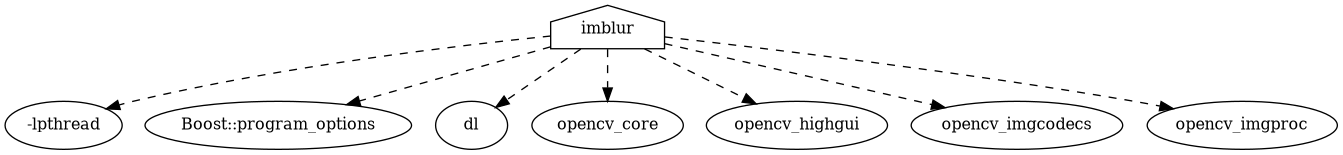
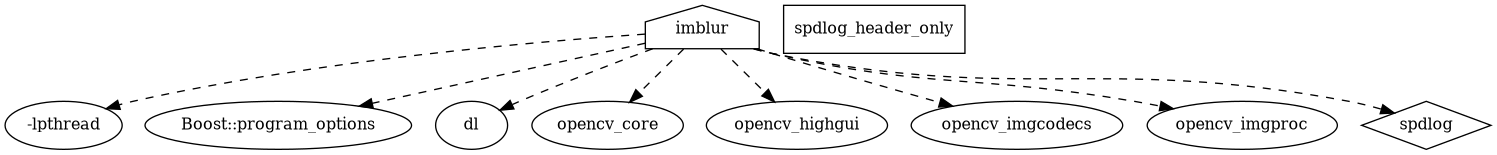
update code to include spdlog

diff --git a/src/main.cpp b/src/main.cpp
@@ -1,131 +1,136 @@
 /**
  * @file main.cpp
  * @author Suhas (sugas182@gmail.com)
- * @brief Blur an image given its path and kernel size parameters 
+ * @brief Blur an image given its path and kernel size parameters
  * @version 0.1
  * @date 2020-01-19
- * 
+ *
  * @copyright Copyright (c) 2020
- * 
+ *
  */
-#include <iostream>
-#include <boost/stacktrace.hpp>
+#include "spdlog/spdlog.h" //https://github.com/gabime/spdlog
+
+#include "spdlog/sinks/stdout_color_sinks.h"
 #include <boost/program_options.hpp>
-#include <opencv2/imgproc.hpp>
+#include <boost/stacktrace.hpp>
+#include <iostream>
 #include <opencv2/core.hpp>
+#include <opencv2/core/utils/logger.hpp>
 #include <opencv2/highgui.hpp>
-
-
+#include <opencv2/imgproc.hpp>
 namespace po = boost::program_options;
- /// see here for doc: https://www.boost.org/doc/libs/1_64_0/doc/html/program_options.html
+
+/// see here for doc:
+/// https://www.boost.org/doc/libs/1_64_0/doc/html/program_options.html
 using namespace std;
 using namespace cv;
-
+void blurFunction(const Mat &imgIn, Mat &imgOut, const int &rows,
+                  const int &cols);
 /**
- * @brief Wrapper around cv::GaussianBlur that takes the address of the image 
- * being manipulated along with directed kernel matrix size paramter and applies 
- * a GaussianBlur on it.
- * 
- * @param imgIn 
- * @param imgOut 
- * @param rows 
- * @param cols 
- */
-void blurFunction(const Mat& imgIn, Mat& imgOut,const int& rows, const int& cols){
-auto ksize = Size(rows, cols);  
-  GaussianBlur(imgIn,imgOut , ksize, 1 );
-}
-
-
-/**
- * 
- * @brief imblur takes an image along with kernel size parameters and 
+ *
+ * @brief imblur takes an image along with kernel size parameters and
  * blurs it to be passed to a screen locker of your choice.
- * 
- * @param ac 
- * @param av 
- * @return int 
+ *
+ * @param ac
+ * @param av
+ * @return int
  */
-int main(int ac, char*av[]){
-  
-  try{
-  Mat image;
-  string filename;
-  string outfilename;
-  int rows=0;  
-  int cols=0;
-  bool quietOutput = false;
-  
-  po::options_description desc("helptext");
-  desc.add_options()
-    ("help,h","detailed help text")
-    ("input-file,i",po::value<string>(&filename),"Input file name")
-    ("output-file,o",po::value<string>(&outfilename)->default_value("output.png"),"Output file name")
-    ("rows,r",po::value<int>(&rows)->default_value(5),"number of rows in the smoothing kernel")
-    ("cols,c",po::value<int>(&cols)->default_value(3),"number of columns in the smoothing kernel")
-    ("quiet,q",po::value<bool>(&quietOutput)->default_value(false),"Quiet (no print to stdout)")
-    ; 
-  
-  po::variables_map vm;
-  po::store(po::parse_command_line(ac, av, desc), vm);
+int main(int ac, char *av[]) {
 
-  po::notify(vm);
-if(vm.count("help")){
+  auto console = spdlog::stdout_color_mt("console");
+  auto err_logger = spdlog::stderr_color_mt("stderr");
+  try {
+    Mat image;
+    string filename;
+    string outfilename;
+    int rows = 0;
+    int cols = 0;
+    bool quietOutput = false;
+
+    po::options_description desc("helptext");
+    desc.add_options()("help,h", "detailed help text")(
+        "input-file,i", po::value<string>(&filename), "Input file name")(
+        "output-file,o",
+        po::value<string>(&outfilename)->default_value("output.png"),
+        "Output file name")("rows,r", po::value<int>(&rows)->default_value(5),
+                            "number of rows in the smoothing kernel")(
+        "cols,c", po::value<int>(&cols)->default_value(3),
+        "number of columns in the smoothing kernel")(
+        "quiet,q", po::value<bool>(&quietOutput)->default_value(false),
+        "Quiet (no print to stdout)");
+
+    po::variables_map vm;
+    po::store(po::parse_command_line(ac, av, desc), vm);
+
+    po::notify(vm);
+    if (vm.count("help")) {
       cout << desc << "\n";
       return 1;
-    }    
-
-    if(vm.count("input-file")){
-      cout << "Input file: " << filename << "\n";
-    } else
-    {
-      cerr << "Input file not specified. Exiting" << "\n";
-     
     }
-    
-    
-    if(vm.count("quiet,q")){
+
+    if (vm.count("input-file")) {
+      cout << "Input file: " << filename << "\n";
+    } else {
+      cerr << "Input file not specified. Exiting"
+           << "\n";
+    }
+
+    if (vm.count("quiet,q")) {
       quietOutput = true;
     }
-    
-    
 
+    image = imread(
+        filename,
+        cv::ImreadModes::IMREAD_UNCHANGED); /// TODO: imread flags could
+                                            /// be turned into a user
+                                            /// configuration later maybe.
+    try {
+      if (!quietOutput) {
+        console->info("in filename: {}", boost::lexical_cast<string>(filename));
+        console->info("out filename: {}",
+                      boost::lexical_cast<string>(outfilename));
+      }
+    } catch (const spdlog::spdlog_ex &currentException) {
+      cerr << currentException.what() << "\n";
+    }
 
-image = imread(filename, cv::ImreadModes::IMREAD_UNCHANGED); ///TODO: imread flags could be turned into a user configuration later maybe. 
-  
-  if (!quietOutput){
-    cout<< "in filename: " << boost::lexical_cast<string>(filename)<<"\n";
-      cout<< "out filename: " << boost::lexical_cast<string>(outfilename)<<"\n";
-  
-  }
- auto ctr=0;
- Mat output_image_data;
+    auto ctr = 0;
+    Mat output_image_data;
 
-  blurFunction(image, image, rows, cols);
-  
-  
-  imwrite(outfilename, image);
-  return 0;
-  }
-  catch(po::error& e){
+    blurFunction(image, image, rows, cols);
+
+    imwrite(outfilename, image);
+    return 0;
+  } catch (po::error &e) {
     cerr << "Error in input: " << e.what() << "\n";
     cout << boost::stacktrace::stacktrace();
     return 1;
-  }
-  catch(cv::Exception& cvException){
-    cerr << "Runtime Error: \n\n" << cvException.msg << "\n";
- cerr << "ERROR CODE: " << cvException.code << "\n";
+  } catch (const spdlog::spdlog_ex &ex) {
+    cerr << "Runtime Error: \n\n" << ex.what() << "\n";
 
- cerr << boost::stacktrace::stacktrace();
-    return cvException.code;
-  }
-  catch(...){
-    cerr << "EXCEPTION UNKOWN!!";
-    
     cerr << boost::stacktrace::stacktrace();
     return 2;
-  }
-return 0;
+  } catch (...) {
+    cerr << "EXCEPTION UNKOWN!!";
 
+    cerr << boost::stacktrace::stacktrace();
+    return 3;
+  }
+  return 0;
 }
 
+/**
+ * @brief Wrapper around cv::GaussianBlur that takes the address of the image
+ * being manipulated along with directed kernel matrix size paramter and
+ * applies a GaussianBlur on it.
+ *
+ * @param imgIn
+ * @param imgOut
+ * @param rows
+ * @param cols
+ */
+void blurFunction(const Mat &imgIn, Mat &imgOut, const int &rows,
+                  const int &cols) {
+  auto ksize = Size(rows, cols);
+  GaussianBlur(imgIn, imgOut, ksize, 1);
+}

diff --git a/README.md b/README.md
@@ -8,14 +8,14 @@ The core program is outlined in main.cpp and provides the imblur executable.
 ## Installation
 
 ## Dependencies
-1) `imlib2` tp use the `imlib2_grab` function. Any drop-in replacement should be fine. We just need the image. 
+1) `imlib2` to use the `imlib2_grab` function. Any drop-in replacement should be fine. We just need the image. 
 2) `i3lock` or similar screen-locker that can accept an image to be used as background. See [`screen-lock`](./screen-lock) and replace `i3lock` with its associated syntax with your screen locker of choice.
 3) See [Dockerfile](./Dockerfile) for a minimal ubuntu installation example.
     - This project requires the following packages:
         - boost : `apt install libboost-all-dev`
         - OpenCV: `apt install libopencv-dev` 
 
-
-
-
+# This Project Uses: 
+## [spdlog](https://github.com/gabime/spdlog)
+A **fast**  c++ logging library. Install using your [package manager](https://github.com/gabime/spdlog#package-managers).
 ![build dependency graph](./doc/deps.png)
